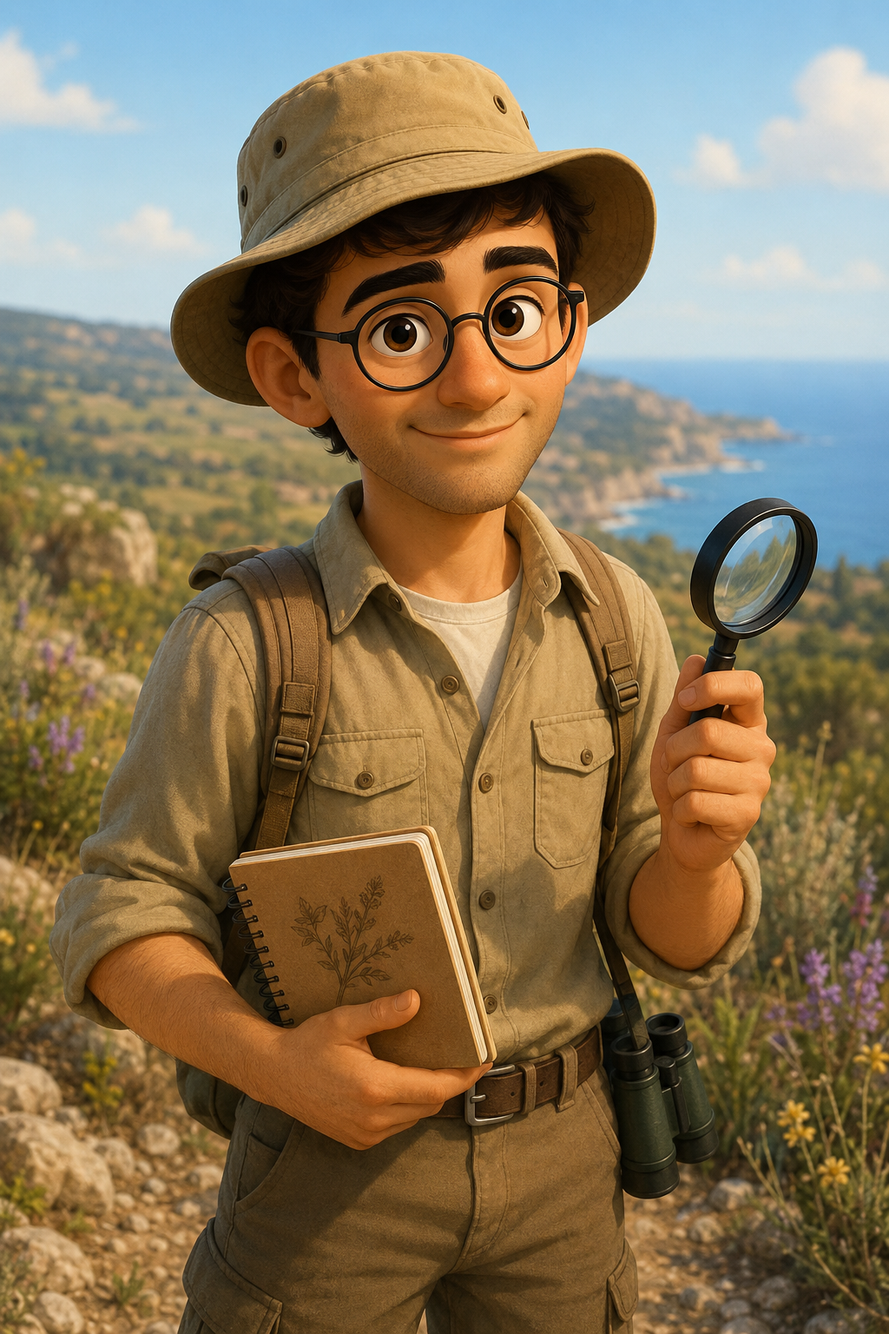
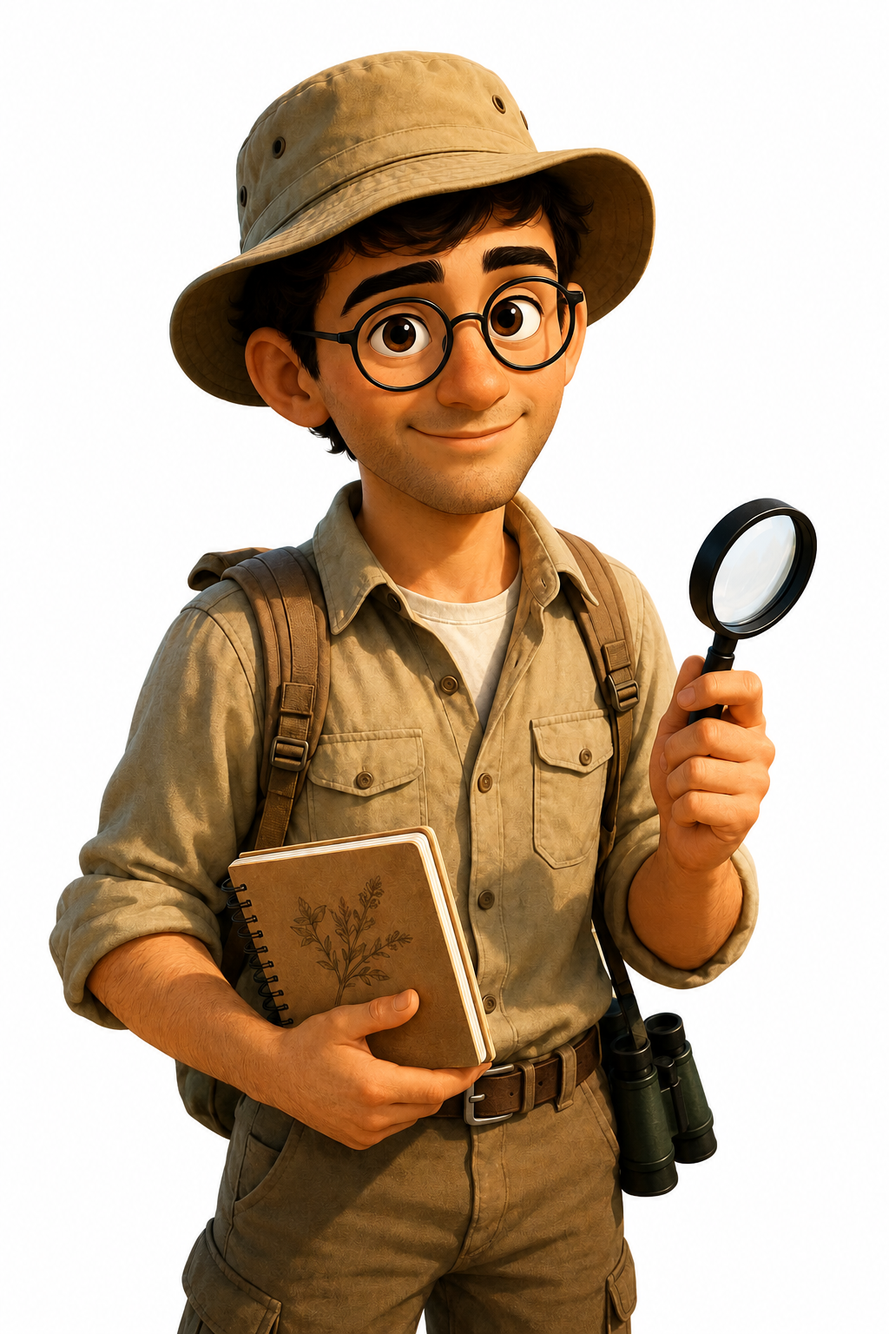
Add files via upload

diff --git a/app/components/CollectionScreens.tsx b/app/components/CollectionScreens.tsx
@@ -1,12 +1,13 @@
 import type { Species } from "../types/game";
 import { MAX_HEARTS, riskClass } from "../lib/game";
+import { Mushon } from "./Mushon";
 
 export function JournalScreen({ species, discovered, completed, rank, rankIcon, rankProgress, hearts, onHome }: { species: Species[]; discovered: string[]; completed: string[]; rank: string; rankIcon: string; rankProgress: number; hearts: number; onHome: () => void }) {
-return <section className="content notebook-page"><div className="section-heading"><div><span className="eyebrow">היומן האישי שלך</span><h1>יומן השדה</h1><p>כאן נשמרים הרמזים, ההישגים והמינים שכבר פגשת.</p></div><button className="ghost" onClick={onHome}>חזרה למחנה</button></div><div className="journal-grid"><article className="journal-card"><span>דרגה נוכחית</span><strong>{rankIcon} {rank}</strong><p>עוד {100 - rankProgress} XP עד להתקדמות הבאה.</p></article><article className="journal-card"><span>זיהויים שהושלמו</span><strong>{completed.length}</strong><p>כל משימה מוסיפה רמזים חדשים למחברת.</p></article><article className="journal-card"><span>לבבות זמינים</span><strong>{"♥".repeat(hearts)}{"♡".repeat(MAX_HEARTS - hearts)}</strong><p>לב אחד מתחדש בסיום משימה.</p></article></div><div className="journal-list">{species.map((item, index) => { const unlocked = discovered.includes(item.id); return <article key={item.id} className={`journal-entry ${unlocked ? "" : "locked"}`}><div className="page-number">{String(index + 1).padStart(2, "0")}</div><div><span className="handwritten">{unlocked ? "זוהה ביומן" : "טרם נצפה"}</span><h2>{unlocked ? item.name : "מין מסתורי"}</h2><p>{unlocked ? item.identificationClues[0] : "השלימו עוד משלחות כדי לפתוח את העמוד."}</p></div><b>{unlocked ? "✓" : "?"}</b></article>; })}</div></section>;
+return <section className="content notebook-page"><Mushon size="small" mood="happy" message="כאן נשמר כל מה שכבר גילינו יחד." /><div className="section-heading"><div><span className="eyebrow">היומן האישי שלך</span><h1>יומן השדה</h1><p>כאן נשמרים הרמזים, ההישגים והמינים שכבר פגשת.</p></div><button className="ghost" onClick={onHome}>חזרה למחנה</button></div><div className="journal-grid"><article className="journal-card"><span>דרגה נוכחית</span><strong>{rankIcon} {rank}</strong><p>עוד {100 - rankProgress} XP עד להתקדמות הבאה.</p></article><article className="journal-card"><span>זיהויים שהושלמו</span><strong>{completed.length}</strong><p>כל משימה מוסיפה רמזים חדשים למחברת.</p></article><article className="journal-card"><span>לבבות זמינים</span><strong>{"♥".repeat(hearts)}{"♡".repeat(MAX_HEARTS - hearts)}</strong><p>לב אחד מתחדש בסיום משימה.</p></article></div><div className="journal-list">{species.map((item, index) => { const unlocked = discovered.includes(item.id); return <article key={item.id} className={`journal-entry ${unlocked ? "" : "locked"}`}><div className="page-number">{String(index + 1).padStart(2, "0")}</div><div><span className="handwritten">{unlocked ? "זוהה ביומן" : "טרם נצפה"}</span><h2>{unlocked ? item.name : "מין מסתורי"}</h2><p>{unlocked ? item.identificationClues[0] : "השלימו עוד משלחות כדי לפתוח את העמוד."}</p></div><b>{unlocked ? "✓" : "?"}</b></article>; })}</div></section>;
 }
 
 export function AlbumScreen({ species, discovered, imageErrors, onImageError, onHome }: { species: Species[]; discovered: string[]; imageErrors: Record<string, boolean>; onImageError: (id: string) => void; onHome: () => void }) {
-return <section className="content notebook-page"><div className="section-heading"><div><span className="eyebrow">אוסף המינים</span><h1>עשרת הנחשים הראשונים</h1><p>מאגר התמונות האמיתי נפתח. לכל צילום נשמרים בעלות, תגיות ורמת קושי.</p></div><button className="ghost" onClick={onHome}>חזרה למחנה</button></div><div className="grid">{species.map((item) => { const approved = item.media.find((media) => media.approved); const visibleImage = approved && !imageErrors[item.id]; const unlocked = discovered.includes(item.id); return <article className="snake-card" key={item.id}><div className="image-wrap">{visibleImage ? <img src={approved.src} alt={approved.alt} onError={() => onImageError(item.id)} /> : <div className="image-placeholder"><span>{unlocked ? "📷" : "🔒"}</span><strong>{unlocked ? "תמונה מאומתת תתווסף כאן" : "הקלף עדיין נעול"}</strong></div>}</div>{visibleImage && unlocked && <div className="media-strip"><span>📷 {item.media.filter((media) => media.approved).length} צילומים מאומתים</span><small>© {approved.photographer}</small></div>}<div className="card-body"><div className="title-row"><div><h2>{unlocked ? item.name : "מין מסתורי"}</h2><small>{unlocked ? item.scientificName : "השלימו משלחת כדי לגלות"}</small></div><span className={`tag ${riskClass(item.status)}`}>{unlocked ? item.status : "נעול"}</span></div>{unlocked && <><p>{item.region}</p><div className="clue"><strong>רמזי זיהוי</strong><ul>{item.identificationClues.slice(0, 2).map((clue) => <li key={clue}>{clue}</li>)}</ul></div><p className="safety-note">🛡 {item.safetyNote}</p></>}</div></article>; })}</div></section>;
+return <section className="content notebook-page"><Mushon size="small" mood="curious" message="כל מין שנפתר מקבל מקום באוסף שלנו." /><div className="section-heading"><div><span className="eyebrow">אוסף המינים</span><h1>עשרת הנחשים הראשונים</h1><p>מאגר התמונות האמיתי נפתח. לכל צילום נשמרים בעלות, תגיות ורמת קושי.</p></div><button className="ghost" onClick={onHome}>חזרה למחנה</button></div><div className="grid">{species.map((item) => { const approved = item.media.find((media) => media.approved); const visibleImage = approved && !imageErrors[item.id]; const unlocked = discovered.includes(item.id); return <article className="snake-card" key={item.id}><div className="image-wrap">{visibleImage ? <img src={approved.src} alt={approved.alt} onError={() => onImageError(item.id)} /> : <div className="image-placeholder"><span>{unlocked ? "📷" : "🔒"}</span><strong>{unlocked ? "תמונה מאומתת תתווסף כאן" : "הקלף עדיין נעול"}</strong></div>}</div>{visibleImage && unlocked && <div className="media-strip"><span>📷 {item.media.filter((media) => media.approved).length} צילומים מאומתים</span><small>© {approved.photographer}</small></div>}<div className="card-body"><div className="title-row"><div><h2>{unlocked ? item.name : "מין מסתורי"}</h2><small>{unlocked ? item.scientificName : "השלימו משלחת כדי לגלות"}</small></div><span className={`tag ${riskClass(item.status)}`}>{unlocked ? item.status : "נעול"}</span></div>{unlocked && <><p>{item.region}</p><div className="clue"><strong>רמזי זיהוי</strong><ul>{item.identificationClues.slice(0, 2).map((clue) => <li key={clue}>{clue}</li>)}</ul></div><p className="safety-note">🛡 {item.safetyNote}</p></>}</div></article>; })}</div></section>;
 }
 
 export function SpeciesReveal({ item, pageNumber, onJournal, onClose }: { item: Species; pageNumber: number; onJournal: () => void; onClose: () => void }) {

diff --git a/app/components/CaseMission.tsx b/app/components/CaseMission.tsx
@@ -47,7 +47,7 @@ export function CaseMission({ species, onClose, onFinish, onMicroReward }: {
       {stage !== "hook" && stage !== "solved" && <div className="case-evidence-meter" aria-label={`${evidence.length} מתוך 3 ראיות נאספו`}><strong>הראיות בתיק</strong>{["דוגמת גב", "מבנה גוף", "לא מסתמכים על צבע"].map((item) => <span key={item} className={evidence.includes(item) ? "found" : ""}>{evidence.includes(item) ? "✓" : "○"}<small>{item}</small></span>)}</div>}
 
       {stage === "hook" && <div className="case-hook">
-        <Mushon mood="curious" message="מישהו התבלבל בין שני נחשים דומים. אל תמהר לנחש — נאסוף שלוש ראיות ונפתור את התיק יחד." />
+        <Mushon size="large" mood="curious" message="מישהו התבלבל בין שני נחשים דומים. אל תמהר לנחש — נאסוף שלוש ראיות ונפתור את התיק יחד." />
         <div className="case-folder">📁</div>
         <span className="case-kicker">תעלומה חדשה</span>
         <h1>הצפע והמתחזה</h1>
@@ -55,7 +55,7 @@ export function CaseMission({ species, onClose, onFinish, onMicroReward }: {
         <button className="primary case-primary" onClick={() => { playGameSound("open"); onMicroReward("התיק נפתח!"); move("notice"); }}>פתח את התיק</button>
       </div>}
 
-      {stage === "notice" && <>
+      {stage === "notice" && <><Mushon size="small" mood="curious" message="אין צורך לדעת את השם עדיין. ספר לי רק מה ראית קודם." />
         <span className="question-label">ניצחון ראשון · אין כאן תשובה לא נכונה</span>
         <div className="single-photo"><img src={viper.media[1].src} alt={viper.media[1].alt} /></div>
         <h1>מה תפס לך את העין קודם?</h1>
@@ -63,7 +63,7 @@ export function CaseMission({ species, onClose, onFinish, onMicroReward }: {
         {choice.picked !== null && <div className="micro-success"><strong>✨ יפה! בלש טוב מתחיל ממה שהוא רואה.</strong><p>עכשיו נבדוק אילו רמזים באמת עוזרים להבדיל בין המינים.</p><button className="primary" onClick={() => move("pattern")}>לרמז הראשון</button></div>}
       </>}
 
-      {stage === "pattern" && <>
+      {stage === "pattern" && <><Mushon size="small" mood="thinking" message="הסתכל על הכתמים: האם הם מתחברים לפס מתפתל, או נשארים נפרדים?" />
         <span className="question-label">רמז 1 מתוך 3</span>
         <div className="compare-photos">
           <figure><img src={viper.media[3].src} alt={viper.media[3].alt} /><figcaption>תמונה א׳</figcaption></figure>
@@ -74,7 +74,7 @@ export function CaseMission({ species, onClose, onFinish, onMicroReward }: {
         {choice.picked !== null && <div className={`micro-success ${choice.success ? "" : "gentle"}`}><strong>{choice.success ? "🔎 מצאת את הרמז החשוב!" : "כמעט — הסתכל שוב על החיבור בין הכתמים."}</strong><p>אצל הצפע הדוגמה נראית לעיתים כמו פס כהה ומתפתל. אצל זעמן המטבעות הכתמים נפרדים יותר.</p>{choice.success && <button className="primary" onClick={() => move("body")}>אסוף עוד ראיה</button>}</div>}
       </>}
 
-      {stage === "body" && <>
+      {stage === "body" && <><Mushon size="small" mood="thinking" message="עכשיו נשווה את מבנה הגוף. זה רמז חשוב, אבל לא מחליטים לפיו לבד." />
         <span className="question-label">רמז 2 מתוך 3</span>
         <div className="compare-photos">
           <figure><img src={viper.media[4].src} alt={viper.media[4].alt} /><figcaption>צפע מצוי</figcaption></figure>
@@ -85,14 +85,14 @@ export function CaseMission({ species, onClose, onFinish, onMicroReward }: {
         {choice.picked !== null && <div className={`micro-success ${choice.success ? "" : "gentle"}`}><strong>{choice.success ? "🌿 עוד ראיה נאספה!" : "כיוון טוב — השווה את רוחב הגוף."}</strong><p>הצפע נראה בדרך כלל עבה ומוצק יותר; הזעמן לרוב ארוך ודק יותר. זה רמז, לא כלל יחיד.</p>{choice.success && <button className="primary" onClick={() => move("compare")}>לגילוי המפתיע</button>}</div>}
       </>}
 
-      {stage === "compare" && <>
+      {stage === "compare" && <><Mushon size="small" mood="alert" message="הנה המלכודת: צבע משתנה ולכן הוא עלול להטעות אותנו." />
         <span className="question-label">הטוויסט של התיק</span>
         <div className="twist-card"><span>🎭</span><h1>הצבע יכול להטעות</h1><p>שני המינים יכולים להופיע בגוונים שונים. בלש טבע לא מחליט לפי צבע בלבד — הוא מחבר כמה ראיות.</p></div>
         <div className="evidence-strip"><b>בתיק שלך:</b><span>{evidenceText}</span></div>
         <button className="primary case-primary" onClick={() => { addEvidence("לא מסתמכים על צבע"); move("final"); }}>אני מוכן לפתור</button>
       </>}
 
-      {stage === "final" && <>
+      {stage === "final" && <><Mushon size="medium" mood="curious" message="זה הרגע שלך. בדוק את כל הראיות שאספנו ורק אז קבע מסקנה." />
         <span className="question-label">חקירת הסיום</span>
         <div className="single-photo final-photo"><img src={coin.media[4].src} alt="נחש בתמונת שטח" /></div>
         <h1>מה המסקנה שלך?</h1>
@@ -102,7 +102,7 @@ export function CaseMission({ species, onClose, onFinish, onMicroReward }: {
       </>}
 
       {stage === "solved" && <div className="case-solved">
-        <Mushon mood="happy" message="עשית בדיוק מה שחוקר טבע עושה: התבוננת, השווית ורק אז החלטת." />
+        <Mushon size="large" mood="celebrate" message="עשית בדיוק מה שחוקר טבע עושה: התבוננת, השווית ורק אז החלטת." />
         <div className="solved-stamp">התיק נסגר</div>
         <h1>עבודה מצוינת, בלש טבע!</h1>
         <p>לפני כמה דקות אולי היית מנחש. עכשיו אתה כבר יודע לחפש כמה רמזים.</p>

diff --git a/app/components/HomeScreen.tsx b/app/components/HomeScreen.tsx
@@ -1,3 +1,5 @@
+import { Mushon } from "./Mushon";
+
 export function HomeScreen({ xp, rank, rankIcon, rankProgress, unlockedSpecies, totalSpecies, hasNextDiscovery, onJourney, onJournal, onAlbum }: { xp: number; rank: string; rankIcon: string; rankProgress: number; unlockedSpecies: number; totalSpecies: number; hasNextDiscovery: boolean; onJourney: () => void; onJournal: () => void; onAlbum: () => void }) {
-return <section className="hero notebook-page"><div className="field-stamp">מחברת שדה · מסע 01</div><div className="hero-grid"><div className="hero-copy"><span className="eyebrow">דיווח חדש התקבל</span><h1>יוצאים לזהות את נחשי ישראל</h1><p>מתבוננים בפרטים, משווים בין מינים ולומדים כיצד לפעול בבטחה — בלי להתקרב ובלי לגעת.</p><div className="actions"><button className="primary big" onClick={onJourney}>🧭 צא למשלחת</button><button onClick={onJournal}>📖 יומן השדה</button></div></div><div className="hero-badge" aria-hidden="true"><span className="magnifier">🔎</span><strong>{rank}</strong><small>{rankIcon} דרגת השטח שלך</small></div></div><div className="profile-strip"><div><span className="metric-label">XP שנאסף</span><strong>{xp}</strong></div><div className="rank-progress" aria-label="התקדמות לדרגה הבאה"><span style={{ width: `${rankProgress}%` }} /></div><div><span className="metric-label">מינים ביומן</span><strong>{unlockedSpecies}/{totalSpecies}</strong></div></div><div className="discovery-teaser"><div className="discovery-seal">{hasNextDiscovery ? "?" : "✓"}</div><div><span>התגלית הבאה ביומן</span><strong>{hasNextDiscovery ? "מין מסתורי מחכה בסוף המשלחת" : "אספת את כל המינים בגרסה הזו"}</strong></div><b>{unlockedSpecies}/{totalSpecies}</b></div><div className="quick-grid"><button className="field-card" onClick={onJourney}><span>🧭</span><strong>משלחות</strong><small>משימות קצרות של 4–6 דקות</small></button><button className="field-card" onClick={onAlbum}><span>🃏</span><strong>אוסף המינים</strong><small>עשרת הנחשים הראשונים</small></button><button className="field-card" onClick={onJournal}><span>📖</span><strong>יומן השדה</strong><small>הישגים, רמזים ותגליות</small></button></div><div className="notice"><strong>כלל הזהב:</strong> מזהים רק ממרחק. לא נוגעים, לא מרימים ולא מתקרבים לצילום.</div></section>;
+return <section className="hero notebook-page home-with-mushon"><div className="field-stamp">מחברת שדה · מסע 01</div><div className="home-mushon-hero"><Mushon size="hero" mood="happy" message="שלום, בלש טבע! תיק חדש מחכה לנו. נסתכל היטב, נאסוף ראיות ורק אז נחליט." /><div className="hero-copy"><span className="eyebrow">דיווח חדש התקבל</span><h1>יוצאים לזהות את נחשי ישראל</h1><p>מתבוננים בפרטים, משווים בין מינים ולומדים כיצד לפעול בבטחה — בלי להתקרב ובלי לגעת.</p><div className="actions"><button className="primary big" onClick={onJourney}>🧭 צא למשלחת עם מושון</button><button onClick={onJournal}>📖 יומן השדה</button></div></div></div><div className="profile-strip"><div><span className="metric-label">XP שנאסף</span><strong>{xp}</strong></div><div className="rank-progress" aria-label="התקדמות לדרגה הבאה"><span style={{ width: `${rankProgress}%` }} /></div><div><span className="metric-label">דרגת השטח</span><strong>{rankIcon} {rank}</strong></div><div><span className="metric-label">מינים ביומן</span><strong>{unlockedSpecies}/{totalSpecies}</strong></div></div><div className="discovery-teaser"><div className="discovery-seal">{hasNextDiscovery ? "?" : "✓"}</div><div><span>התגלית הבאה ביומן</span><strong>{hasNextDiscovery ? "מין מסתורי מחכה בסוף המשלחת" : "אספת את כל המינים בגרסה הזו"}</strong></div><b>{unlockedSpecies}/{totalSpecies}</b></div><div className="quick-grid"><button className="field-card" onClick={onJourney}><span>🧭</span><strong>משלחות</strong><small>משימות קצרות של 4–6 דקות</small></button><button className="field-card" onClick={onAlbum}><span>🃏</span><strong>אוסף המינים</strong><small>עשרת הנחשים הראשונים</small></button><button className="field-card" onClick={onJournal}><span>📖</span><strong>יומן השדה</strong><small>הישגים, רמזים ותגליות</small></button></div><div className="notice"><strong>מושון מזכיר:</strong> מזהים רק ממרחק. לא נוגעים, לא מרימים ולא מתקרבים לצילום.</div></section>;
 }

diff --git a/app/globals.css b/app/globals.css
@@ -206,3 +206,9 @@ body{background-color:#ece9dc;background-image:radial-gradient(circle at 12% 8%,
 @keyframes mushonBreathe{0%,100%{transform:translateY(0) rotate(-1deg)}50%{transform:translateY(-4px) rotate(1deg)}}@keyframes achievementIn{from{opacity:0;transform:scale(.66) rotate(-5deg)}to{opacity:1;transform:scale(1) rotate(0)}}@keyframes medalBounce{0%,100%{transform:translateY(0) rotate(-4deg)}50%{transform:translateY(-7px) rotate(4deg)}}@keyframes raysTurn{to{transform:rotate(360deg)}}
 @media(max-width:620px){.mushon-guide{align-items:center;gap:7px}.mushon-portrait{flex-basis:92px;width:92px;height:116px}.mushon-guide.compact .mushon-portrait{flex-basis:82px;width:82px;height:104px}.mushon-bubble{font-size:.88rem;padding:12px 14px}.case-evidence-meter strong{width:100%}.case-evidence-meter>span{flex:1;justify-content:center;min-width:94px}.case-evidence-meter small{display:none}}
 @media(prefers-reduced-motion:reduce){.mushon-portrait,.achievement-medal,.achievement-rays{animation:none}}
+
+/* v1.4 — Moshon is the visual guide throughout the game */
+.home-mushon-hero{display:grid;grid-template-columns:minmax(300px,42%) 1fr;align-items:center;gap:clamp(18px,4vw,48px);margin-bottom:24px}.home-mushon-hero .hero-copy{text-align:right}.home-mushon-hero .mushon-guide{grid-column:1;grid-row:1}.home-mushon-hero .hero-copy{grid-column:2;grid-row:1}
+.mushon-guide{display:flex;direction:rtl;align-items:flex-end;justify-content:center;gap:14px;max-width:780px;margin:0 auto 18px}.mushon-portrait{position:relative;flex:none;overflow:hidden;filter:drop-shadow(0 14px 16px rgba(35,59,44,.18));animation:mushonBreathe 3.2s ease-in-out infinite}.mushon-portrait img{object-fit:contain;object-position:center bottom;background:transparent}.mushon-small .mushon-portrait{width:96px;height:126px}.mushon-medium .mushon-portrait{width:150px;height:200px}.mushon-large .mushon-portrait{width:230px;height:300px}.mushon-hero{max-width:none;align-items:center}.mushon-hero .mushon-portrait{width:min(380px,36vw);height:min(500px,48vw);min-width:270px;min-height:355px}.mushon-hero .mushon-bubble{max-width:380px;font-size:1.02rem}.mushon-bubble{position:relative;max-width:480px;padding:14px 18px;border-radius:20px 20px 6px 20px;background:#fff8df;border:1px solid #d5bd79;box-shadow:0 8px 20px rgba(52,67,54,.1);text-align:right}.mushon-bubble:after{content:"";position:absolute;right:-10px;bottom:18px;border-width:9px 0 9px 11px;border-style:solid;border-color:transparent transparent transparent #d5bd79}.mushon-bubble:before{content:"";position:absolute;right:-8px;bottom:19px;z-index:1;border-width:8px 0 8px 10px;border-style:solid;border-color:transparent transparent transparent #fff8df}.mushon-bubble small{font-weight:1000;color:#83611d}.mushon-bubble p{margin:4px 0 0!important;line-height:1.55!important;color:#49584f!important}.mushon-celebrate .mushon-portrait{animation:mushonCelebrate 1.2s ease-in-out infinite}.mushon-alert .mushon-bubble{border-color:#d38b68;background:#fff0df}.challenge-card>.mushon-small,.content>.mushon-small{position:sticky;top:76px;z-index:8;justify-content:flex-start;margin:0 0 12px;max-width:100%}.challenge-card>.mushon-small .mushon-bubble,.content>.mushon-small .mushon-bubble{max-width:560px}.case-card>.mushon-guide{margin-bottom:16px}.opening-hero-card .mushon-hero{margin-top:-26px;margin-bottom:-20px}.opening-hero-card .mushon-hero .mushon-portrait{width:min(330px,55vw);height:min(430px,72vw)}
+@keyframes mushonCelebrate{0%,100%{transform:translateY(0) rotate(-2deg)}50%{transform:translateY(-9px) rotate(2deg)}}
+@media(max-width:780px){.home-mushon-hero{grid-template-columns:1fr}.home-mushon-hero .mushon-guide,.home-mushon-hero .hero-copy{grid-column:1}.home-mushon-hero .mushon-guide{grid-row:1}.home-mushon-hero .hero-copy{grid-row:2;text-align:center}.home-mushon-hero .actions{justify-content:center}.mushon-hero{flex-direction:column}.mushon-hero .mushon-portrait{width:min(300px,72vw);height:min(395px,94vw);min-width:0;min-height:0}.mushon-large .mushon-portrait{width:180px;height:235px}.challenge-card>.mushon-small,.content>.mushon-small{position:static}.mushon-guide{align-items:center}.mushon-small .mushon-portrait{width:78px;height:102px}.mushon-bubble{font-size:.88rem;padding:11px 13px}}

diff --git a/app/components/JourneyScreen.tsx b/app/components/JourneyScreen.tsx
@@ -1,4 +1,5 @@
 import type { Mission } from "../types/game";
+import { Mushon } from "./Mushon";
 export function JourneyScreen({ missions, completed, onOpen, onHome, onReset }: { missions: Mission[]; completed: string[]; onOpen: (mission: Mission) => void; onHome: () => void; onReset: () => void }) {
-return <section className="content notebook-page journey"><div className="section-heading"><div><span className="eyebrow">משלחת הכרמל · פרק 1</span><h1>הופכים לבלשי נחשים</h1><p>כל תחנה מלמדת מיומנות אחת וממלאת עוד עמוד ביומן השדה.</p></div><button className="ghost" onClick={onHome}>חזרה למחנה</button></div><div className="lesson-path">{missions.map((mission, index) => { const done = completed.includes(mission.id); return <div className={`lesson-row ${index % 2 ? "offset" : ""}`} key={mission.id}><button className={`lesson-node ${done ? "done" : ""} ${!mission.available ? "locked" : ""}`} onClick={() => onOpen(mission)} disabled={!mission.available}><span className="lesson-icon">{done ? "✓" : mission.icon}</span><span><strong>{mission.title}</strong><small>{mission.subtitle}</small></span><b>{mission.available ? `+${mission.xp} XP` : "🔒"}</b></button>{index < missions.length - 1 && <div className="path-line" />}</div>; })}</div><button className="text-button" onClick={onReset}>איפוס התקדמות במכשיר</button></section>;
+return <section className="content notebook-page journey"><Mushon size="large" mood="curious" message="בחר תחנה במסלול. אני אהיה איתך בכל שלב ואעזור לחפש את הרמז הבא." /><div className="section-heading"><div><span className="eyebrow">משלחת הכרמל · פרק 1</span><h1>הופכים לבלשי נחשים</h1><p>כל תחנה מלמדת מיומנות אחת וממלאת עוד עמוד ביומן השדה.</p></div><button className="ghost" onClick={onHome}>חזרה למחנה</button></div><div className="lesson-path">{missions.map((mission, index) => { const done = completed.includes(mission.id); return <div className={`lesson-row ${index % 2 ? "offset" : ""}`} key={mission.id}><button className={`lesson-node ${done ? "done" : ""} ${!mission.available ? "locked" : ""}`} onClick={() => onOpen(mission)} disabled={!mission.available}><span className="lesson-icon">{done ? "✓" : mission.icon}</span><span><strong>{mission.title}</strong><small>{mission.subtitle}</small></span><b>{mission.available ? `+${mission.xp} XP` : "🔒"}</b></button>{index < missions.length - 1 && <div className="path-line" />}</div>; })}</div><button className="text-button" onClick={onReset}>איפוס התקדמות במכשיר</button></section>;
 }

diff --git a/app/components/SafetyMission.tsx b/app/components/SafetyMission.tsx
@@ -1,6 +1,7 @@
 import type { SafetyQuestion } from "../types/game";
 import { answerClass } from "../lib/game";
 import { ChallengeHeader, Feedback } from "./GameUI";
+import { Mushon } from "./Mushon";
 export function SafetyMission({ question, index, total, selected, feedbackLine, onClose, onChoose, onNext }: { question: SafetyQuestion; index: number; total: number; selected: number | null; feedbackLine: string; onClose: () => void; onChoose: (index: number) => void; onNext: () => void }) {
-return <section className="challenge notebook-page"><ChallengeHeader onClose={onClose} progress={((index + 1) / total) * 100} icon="🛡" /><div className="challenge-card"><span className="question-label">משימת בטיחות {index + 1}/{total}</span><div className="scene-panel"><span>דיווח שטח</span><strong>🐍</strong><small>עוצרים ומתבוננים מרחוק</small></div><h1>{question.scene}</h1><div className="choice-list">{question.choices.map((choice, choiceIndex) => <button key={choice} className={answerClass(selected, choiceIndex, question.correct)} onClick={() => onChoose(choiceIndex)}>{choice}</button>)}</div>{selected !== null && <Feedback isCorrect={selected === question.correct} line={feedbackLine} explanation={question.explanation} onNext={onNext} isLast={index === total - 1} />}</div></section>;
+return <section className="challenge notebook-page"><ChallengeHeader onClose={onClose} progress={((index + 1) / total) * 100} icon="🛡" /><div className="challenge-card"><Mushon size="small" mood="alert" message="בטיחות לפני הכול. נבחר יחד את הפעולה ששומרת על מרחק." /><span className="question-label">משימת בטיחות {index + 1}/{total}</span><div className="scene-panel"><span>דיווח שטח</span><strong>🐍</strong><small>עוצרים ומתבוננים מרחוק</small></div><h1>{question.scene}</h1><div className="choice-list">{question.choices.map((choice, choiceIndex) => <button key={choice} className={answerClass(selected, choiceIndex, question.correct)} onClick={() => onChoose(choiceIndex)}>{choice}</button>)}</div>{selected !== null && <Feedback isCorrect={selected === question.correct} line={feedbackLine} explanation={question.explanation} onNext={onNext} isLast={index === total - 1} />}</div></section>;
 }

diff --git a/app/components/Mushon.tsx b/app/components/Mushon.tsx
@@ -1,27 +1,28 @@
 import Image from "next/image";
 
-export function Mushon({ message, mood = "curious", compact = false }: {
-  message: string;
-  mood?: "curious" | "happy" | "thinking";
-  compact?: boolean;
+type Mood = "curious" | "happy" | "thinking" | "alert" | "celebrate";
+type Size = "small" | "medium" | "large" | "hero";
+
+export function Mushon({ message, mood = "curious", size = "medium", className = "" }: {
+  message?: string;
+  mood?: Mood;
+  size?: Size;
+  className?: string;
 }) {
-  const moodLabel = mood === "happy" ? "שמח" : mood === "thinking" ? "חושב" : "סקרן";
+  const moodLabel: Record<Mood, string> = {
+    curious: "סקרן",
+    happy: "שמח",
+    thinking: "חושב",
+    alert: "ערני",
+    celebrate: "חוגג",
+  };
 
   return (
-    <aside className={`mushon-guide mushon-${mood} ${compact ? "compact" : ""}`} aria-label={`מושון חוקר הטבע, ${moodLabel}`}>
+    <aside className={`mushon-guide mushon-${mood} mushon-${size} ${className}`.trim()} aria-label={`מושון חוקר הטבע, ${moodLabel[mood]}`}>
       <div className="mushon-portrait" aria-hidden="true">
-        <Image
-          src="/images/characters/mushon.png"
-          alt=""
-          fill
-          sizes={compact ? "110px" : "160px"}
-          priority={!compact}
-        />
+        <Image src="/images/characters/mushon.png" alt="" fill sizes={size === "hero" ? "420px" : size === "large" ? "280px" : "160px"} priority={size === "hero" || size === "large"} />
       </div>
-      <div className="mushon-bubble">
-        <small>מושון אומר</small>
-        <p>{message}</p>
-      </div>
+      {message && <div className="mushon-bubble"><small>מושון</small><p>{message}</p></div>}
     </aside>
   );
 }

diff --git a/app/components/IntroScreen.tsx b/app/components/IntroScreen.tsx
@@ -18,7 +18,7 @@ export function IntroScreen({ onStart }: { onStart: () => void }) {
 
       <div className="opening-card opening-hero-card">
         <div className="opening-case-label">מחברת השדה האישית שלך</div>
-        <Mushon compact mood="happy" message="שלום, אני מושון! יחד נפתח תיקים, נאסוף רמזים ונגלה מי באמת מסתתר בתמונה." />
+        <Mushon size="hero" mood="happy" message="שלום, אני מושון! יחד נפתח תיקים, נאסוף רמזים ונגלה מי באמת מסתתר בתמונה." />
         <p className="opening-kicker">משחק חקר וזיהוי לילדים בני 6–12</p>
         <h1 id="opening-title">בלשי הטבע</h1>
         <h2>פותחים תיק. אוספים רמזים. מגלים את האמת.</h2>

diff --git a/PROJECT.md b/PROJECT.md
@@ -1,0 +1,14 @@
+# Blashei Hateva
+
+Current version: 1.4.0
+
+Current sprint: Moshon Everywhere
+
+Completed:
+- Official isolated Moshon artwork integrated.
+- Large Moshon hero on opening and home screens.
+- Moshon guidance added across journey, safety, investigation, journal and album screens.
+- Responsive character sizing and speech-bubble system.
+
+Next sprint:
+- Interaction library: magnifier, hotspot selection and drag-and-drop clues.
